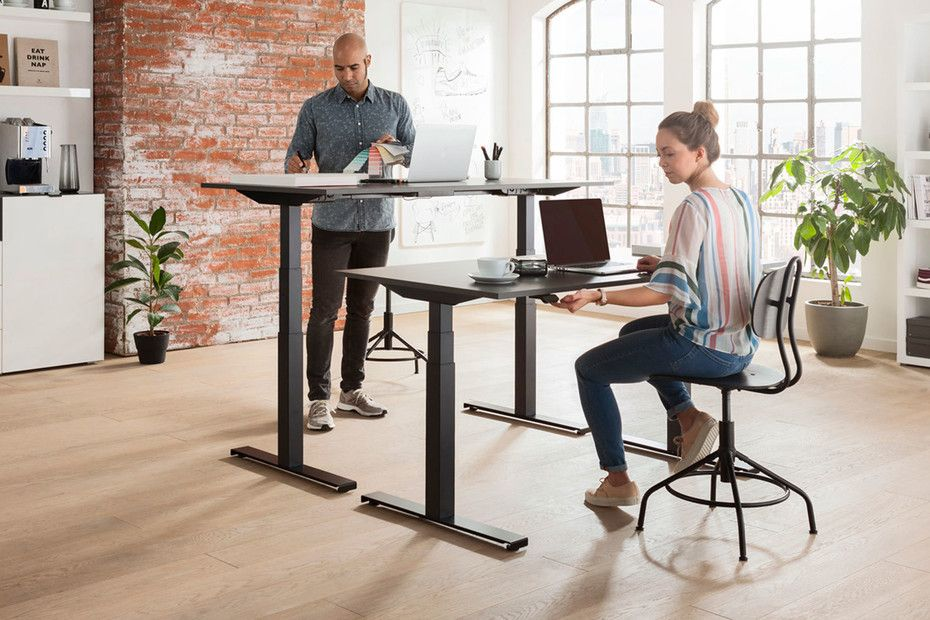
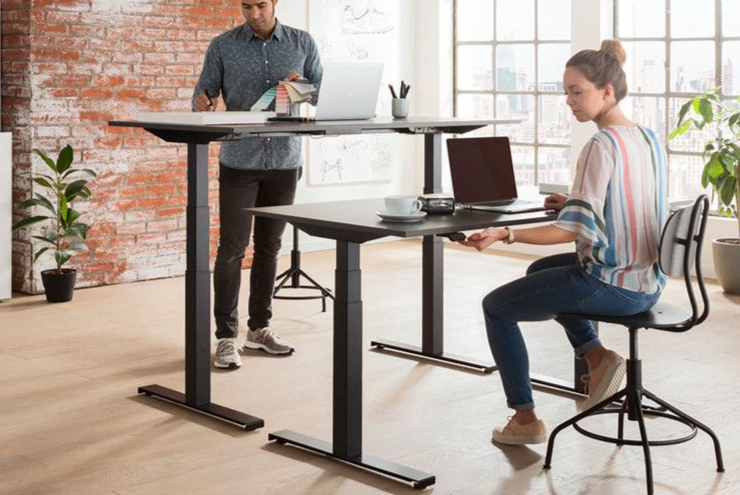
welcome page

diff --git a/Tabely/resources/views/components/layout.blade.php b/Tabely/resources/views/components/layout.blade.php
@@ -1,1 +1,82 @@
-<?php
+<!doctype html>
+<html lang="en" class="h-full">
+<head>
+    <meta charset="UTF-8">
+    <meta name="viewport" content="width=device-width, initial-scale=1">
+    <title>Document</title>
+    <script src="https://cdn.tailwindcss.com"></script>
+    <script src="https://cdn.jsdelivr.net/npm/@tailwindplus/elements@1" type="module"></script>
+
+</head>
+<body class="h-full">
+    <div class="min-h-full">
+        {{--navigation bar--}}
+        <nav class="bg-white px-4 py-4 border-2">
+            <div class="flex h-12 items-center justify-between">
+                {{--left side--}}
+                <div class="flex items-center gap-4">
+                    {{--Logo--}}
+                    <div class="flex shrink-0 items-center">
+                        <img src="{{ asset('images/logo.png') }}" alt="Company Logo" class="size-16">
+                        <a href="/" class="font-bold text-2xl">
+                            Tabely
+                        </a>
+                    </div>
+                    {{--links--}}
+                    <div class="flex items-center gap-3">
+                        <x-nav-link href="/features" :active="request()->is('features')" >Features</x-nav-link>
+                        <x-nav-link href="/companies" :active="request()->is('companies')">For Companies</x-nav-link>
+                        <x-nav-link href="/support" :active="request()->is('support')">Support</x-nav-link>
+                    </div>
+                </div>
+                {{--login button--}}
+                <div class="flex ">
+                    <a href="/login" class="rounded-md px-3 py-2">Login</a>
+                </div>
+            </div>
+        </nav>
+        {{--body--}}
+        <div>
+            {{ $slot }}
+        </div>
+        {{--footer--}}
+        <footer class="px-20 py-16 bg-white border-2">
+            <div class="flex flex-row justify-between">
+                {{--left side - Logo, p, links to social media--}}
+                <div class="flex flex-col gap-3 items-start mt-2">
+                    <h2 class="font-bold text-2xl">Tabely</h2>
+                    <p class="text-xs text-gray-400">Software for easy control of adjustable tables in your company</p>
+                    {{--social media links--}}
+                    <div class="flex gap-2 mt-4">
+                        <x-social-link href="https://instagram.com" src="images/ig.png" alt="Instagram"></x-social-link>
+                        <x-social-link href="https://facebook.com" src="images/fb.png" alt="Facebook"></x-social-link>
+                        <x-social-link href="https://x.com" src="images/x.png" alt="X"></x-social-link>
+                    </div>
+                </div>
+                {{--right side--}}
+                <div class="flex flex-row gap-14">
+                    {{--first row--}}
+                    <div class="flex flex-col gap-2">
+                        <a>Features</a>
+                        <a class="text-sm opacity-50">Core features</a>
+                        <a class="text-sm opacity-50">Integrations</a>
+                    </div>
+                    {{--second row--}}
+                    <div class="flex flex-col gap-2">
+                        <a>For Companies</a>
+                        <a class="text-sm opacity-50">Blog</a>
+                        <a class="text-sm opacity-50">Customer stories</a>
+                    </div>
+                    {{--third row--}}
+                    <div class="flex flex-col gap-2">
+                        <a>Support</a>
+                        <a class="text-sm opacity-50">Contact</a>
+                        <a class="text-sm opacity-50">Support</a>
+                        <a class="text-sm opacity-50">Legal</a>
+                    </div>
+                </div>
+            </div>
+        </footer>
+    </div>
+</body>
+</html>

diff --git a/Tabely/resources/views/guest/welcome.blade.php b/Tabely/resources/views/guest/welcome.blade.php
@@ -1,3 +1,15 @@
 <x-layout>
-
+    {{--body--}}
+    <div class="pl-20 flex flex-row justify-between">
+        {{--left side--}}
+        <div class="flex flex-col gap-5 pt-32">
+            <p class="text-5xl font-bold">Login to your Tabely <br/>account</p>
+            <p class="opacity-50">Make your life easier with Tabely</p>
+            <a class="bg-black text-white px-4 py-2 w-24 text-center rounded-xl">Login</a>
+        </div>
+        {{--right side image--}}
+        <div class=" overflow-hidden rounded-l-3xl">
+            <img src="{{ asset("images/welcome-image.jpg") }}" alt="Office Image" class="object-cover">
+        </div>
+    </div>
 </x-layout>

diff --git a/Tabely/resources/views/components/social-link.blade.php b/Tabely/resources/views/components/social-link.blade.php
@@ -1,1 +1,13 @@
-<?php
+@props([
+  'href' => '#',
+  'src'  => '',
+  'alt'  => '',
+  'size' => 8,
+])
+
+<a href="{{ $href }}" target="_blank"
+    {{ $attributes->merge(['class' => 'inline-block hover:opacity-50 transition']) }}>
+    <img src="{{ asset($src) }}"
+         alt="{{ $alt }}"
+         class="h-{{ $size }} w-{{ $size }}">
+</a>

diff --git a/Tabely/routes/web.php b/Tabely/routes/web.php
@@ -2,6 +2,8 @@
 
 use Illuminate\Support\Facades\Route;
 
-Route::get('/', function () {
-    return view('welcome');
-});
+Route::view('/', 'guest.welcome');
+Route::view('/features', 'guest.features');
+Route::view('/companies', 'guest.companies');
+Route::view('/support', 'guest.support');
+Route::view('/login', 'auth.login');

diff --git a/Tabely/resources/views/components/nav-link.blade.php b/Tabely/resources/views/components/nav-link.blade.php
@@ -1,1 +1,6 @@
-<?php
+@props(['active' => false])
+
+<a class="{{ $active ? "font-bold" : "font-medium" }} text-xs text-black hover:bg-gray-200 rounded-md px-3 py-2"
+   {{ $attributes }}>
+    {{ $slot }}
+</a>

diff --git a/Tabely/resources/views/guest/companies.blade.php b/Tabely/resources/views/guest/companies.blade.php
@@ -1,1 +1,3 @@
-<?php
+<x-layout>
+
+</x-layout>

diff --git a/Tabely/resources/views/guest/features.blade.php b/Tabely/resources/views/guest/features.blade.php
@@ -1,1 +1,3 @@
-<?php
+<x-layout>
+
+</x-layout>

diff --git a/Tabely/resources/views/guest/support.blade.php b/Tabely/resources/views/guest/support.blade.php
@@ -1,1 +1,3 @@
-<?php
+<x-layout>
+
+</x-layout>
